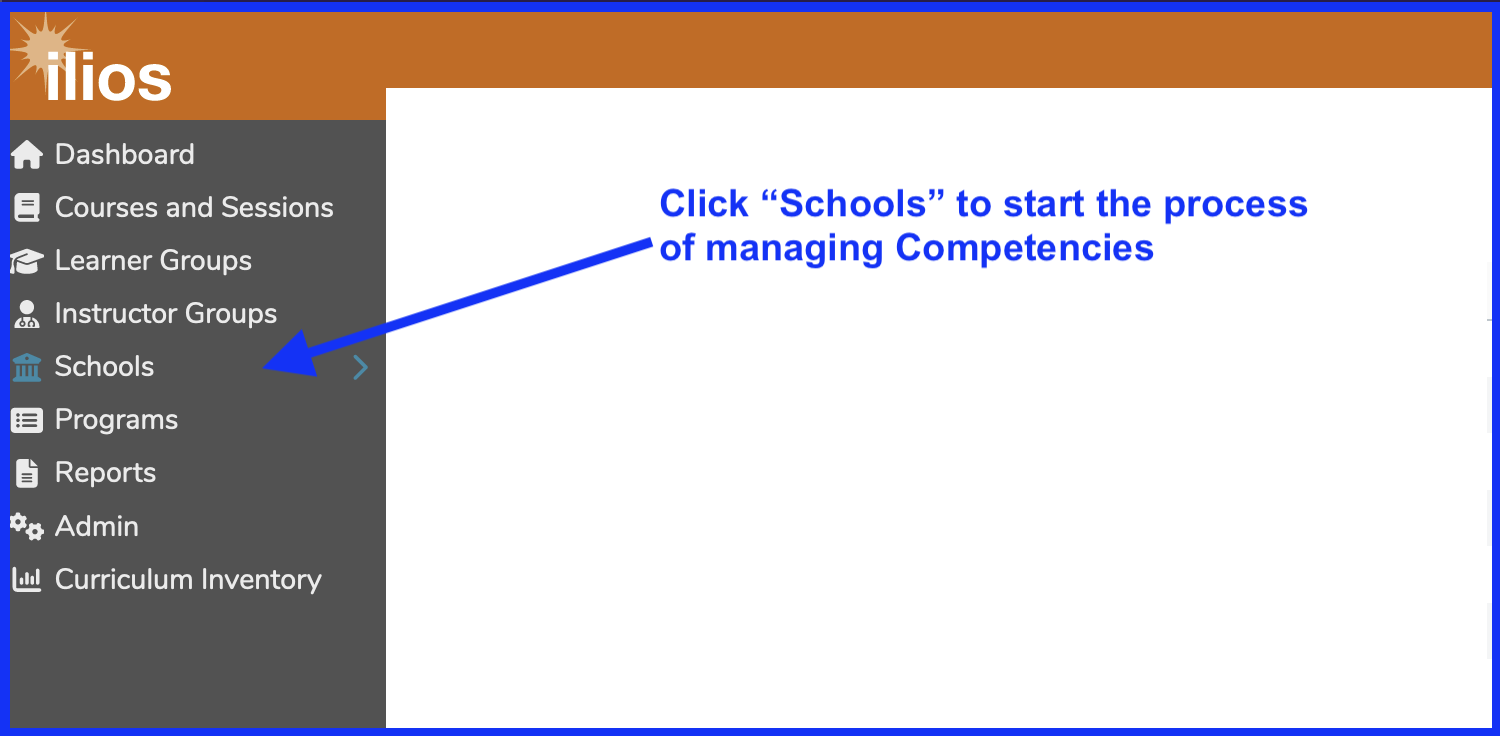
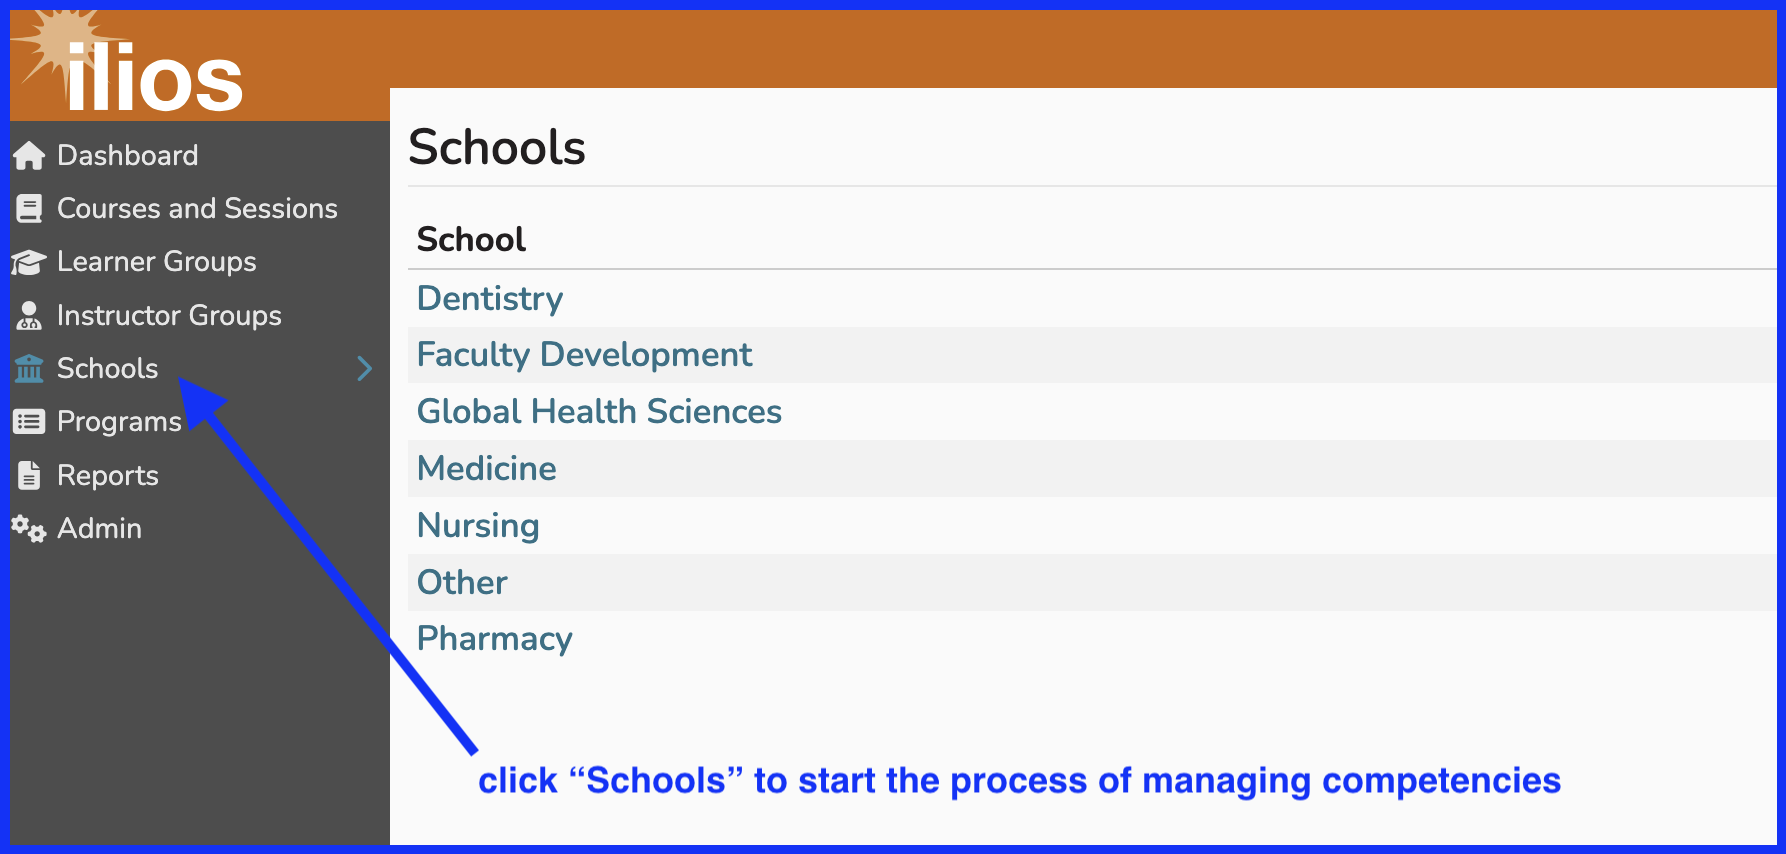
image updated - text updated too

Changed region(s): [[0.0, 0.0, 1.0, 1.0], [0.368, 0.25, 0.8893, 0.375], [0.1533, 0.5938, 0.184, 0.6562]]

diff --git a/schools/competencies.md b/schools/competencies.md
@@ -7,9 +7,9 @@ description:
 
 Competency domains and sub-domains can be managed within the Ilios application. To access this functional area of Ilios, from the flyout menu select "**Schools**" as shown below.
 
-![click "Schools"](../images/schools/competencies/click_schools.png)
+![click schools](../images/schools/competencies/click_schools.png)
 
-![click school title to view/edit](../images/schools/competencies/select_school.png)
+![select school](../images/schools/competencies/select_school.png)
 
 Now that the School of Medicine has been selected, Competencies can be maintained using the following interface and commands. An oveview of the Schools screen is shown below. Maintaining email addresses and now defunct Curriculum Inventory information is not shown in the screen shot. Aside from those, the screen shot is complete.
 
